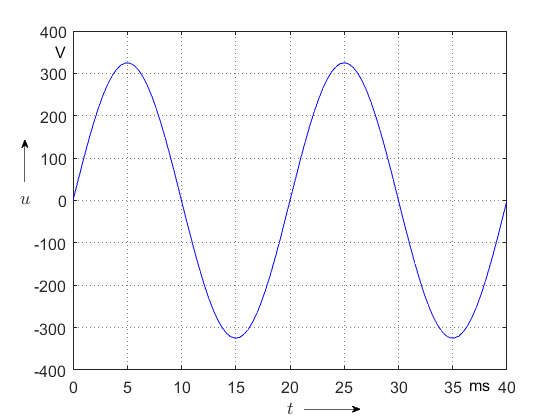
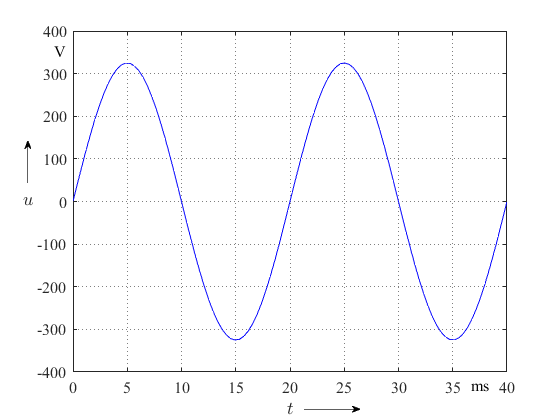
modified examples

diff --git a/README.md b/README.md
@@ -10,16 +10,18 @@ u = 325*sin(2*pi*t/20);
 set(0,'defaultFigurePaperSize',[150 100]);
 set(0,'defaultTextInterpreter','latex');
 set(0,'defaultTextFontsize',12);
+set(0,'defaultTextFontname','Times');
 set(0,'defaultAxesGridColor','k');
 set(0,'defaultAxesGridAlpha',0.5);
 set(0,'defaultAxesGridLineStyle',':');
 set(0,'defaultAxesFontsize',12);
+set(0,'defaultAxesFontname','Times');
 set(0,'defaultFigureColor','w');
 
 plot(t, u, 'b');
 grid on;
 
-din461('$$t$$', '$$u$$', 'ms', 'V');
+din461('$t$', '$u$', 'ms', 'V');
 ```
 
 ![Example 1](/screenshots/example1.png?raw=true)
